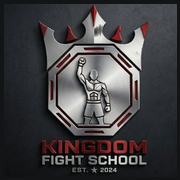
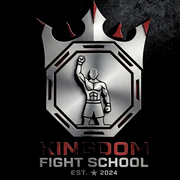
fix(brand): fundo preto uniforme no ícone PWA (sem caixa chumbo)
Uniformiza fundo escuro do kfs-app-icon e preenche o quadrado sem margem extra.

diff --git a/scripts/generate-pwa-icons.ts b/scripts/generate-pwa-icons.ts
@@ -21,13 +21,12 @@ async function main() {
   const appDir = path.join(root, "app");
   await fs.mkdir(outDir, { recursive: true });
 
-  /** iOS/Android cortam cantos (~squircle); conteúdo na zona central ~76–80%. */
   async function squareIcon(size: number, maskable: boolean) {
-    const scale = isReadySource
-      ? maskable ? 0.72 : 0.96
-      : maskable
-        ? 0.68
-        : 0.78;
+    if (isReadySource && !maskable) {
+      return sharp(buf).resize(size, size, { fit: "cover", position: "centre" }).png().toBuffer();
+    }
+
+    const scale = isReadySource ? 0.72 : maskable ? 0.68 : 0.78;
     const inner = Math.round(size * scale);
     const logo = await sharp(buf)
       .resize(inner, inner, {
@@ -71,7 +70,7 @@ async function main() {
   ]);
 
   console.log(
-    `Ícones PWA gerados (${path.basename(srcPath)}${isReadySource ? ", fonte pronta" : ", emblema recortado"}, fundo #121416)`,
+    `Ícones PWA gerados (${path.basename(srcPath)}${isReadySource ? ", fundo preto unificado" : ", emblema recortado"})`,
   );
 }
 

diff --git a/public/sw.js b/public/sw.js
@@ -1,7 +1,7 @@
 /**
  * Service worker PWA — pass-through de rede; bump `SW_VERSION` para forçar atualização.
  */
-const SW_VERSION = "kfs-brand-v8";
+const SW_VERSION = "kfs-brand-v9";
 
 self.addEventListener("install", (event) => {
   event.waitUntil(

diff --git a/DOCS/memory.md b/DOCS/memory.md
@@ -13,7 +13,7 @@ Contexto técnico e decisões recentes (**prioridade para continuidade** e alinh
 ## Identidade visual / marca (2026)
 
 - **Tokens:** `lib/brand.ts` — fundo `#121416`, primário `#9B111E`; assets em `public/brand/` (`kfs-logotipo-transparent.png`, `kfs-logotipo-emblem.png` só símbolo).
-- **Ícone PWA:** fonte preferida `public/brand/kfs-app-icon.png` (1024×1024, emblema centrado com ~15% margem, fundo `#121416`); senão `kfs-emblem-icon.png` (build recorta margem branca e só o emblema, sem texto). `npm run generate:pwa-icons` aplica safe zone (~78% do quadrado) para não cortar nos cantos iOS. Após alterar: bump `SW_VERSION` em `public/sw.js` e **reinstalar** a PWA no telemóvel.
+- **Ícone PWA:** fonte preferida `public/brand/kfs-app-icon.png` (1024×1024; fundo **preto puro** `#000000` ou transparente — evita contraste chumbo/margem). O build uniformiza fundos escuros e preenche o quadrado (sem margem extra). Senão `kfs-emblem-icon.png`. `npm run generate:pwa-icons`; bump `SW_VERSION` em `public/sw.js`; **reinstalar** a PWA no telemóvel.
 - **UI:** header com texto «Kingdom Fight School»; emblema só em splash (`PwaLaunchSplash`, `DashboardSplash` via `BrandSplashLogo`) e ícones da app.
 - **Manifest PWA:** `background_color` e `theme_color` grafite (`#121416`); ícones `public/icons/kfs-emblem-*.png`. Após mudar ícone/splash: **remover a PWA do ecrã e instalar de novo** (iOS/Android não actualizam o ícone só com deploy).
 
